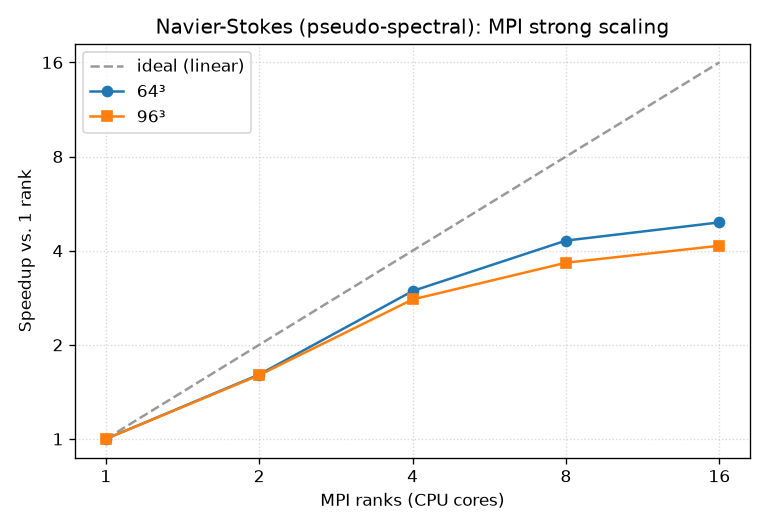
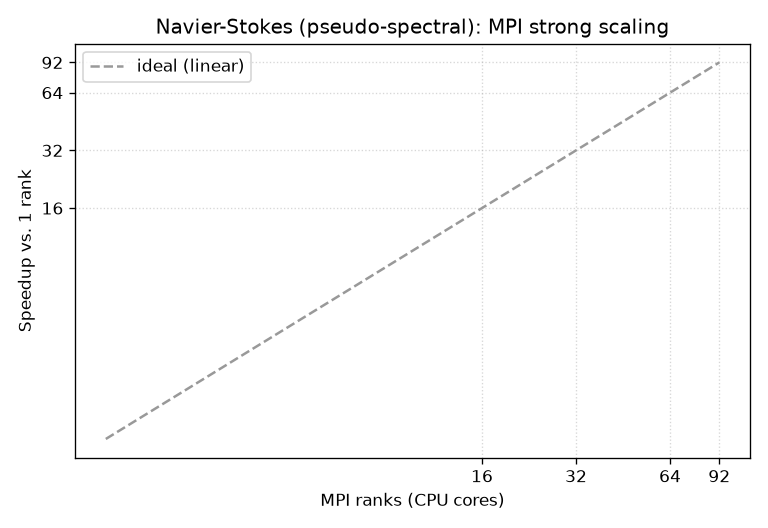
DOC: Updated benchmark

diff --git a/benchmarks/benchmark.py b/benchmarks/benchmark.py
@@ -63,9 +63,18 @@ DEFAULT_MPI_PYTHONPATH = os.pathsep.join([
 # --------------------------------------------------------------------------- #
 # Running the workload
 # --------------------------------------------------------------------------- #
-def run(device, n, steps, warmup, nranks, mpi_pythonpath):
-    """Run one timed workload; return a dict of metrics or None."""
-    base = [WORKLOAD, "-n", str(n), "-d", device,
+def run(device, n, steps, warmup, nranks, mpi_pythonpath, timeout):
+    """Run one timed workload; return a dict of metrics or None on failure.
+
+    Any failure (crash, OOM, launch error, timeout, or unparseable output) is
+    logged and reported as ``None`` so the caller can skip the point and carry
+    on. The MPI configurations launch the workload via ``python -m mpi4py`` so
+    that an unhandled exception on *any* rank calls ``MPI_Abort`` and brings the
+    whole job down with a non-zero exit, instead of leaving the surviving ranks
+    to deadlock in the next collective (which would otherwise hang until
+    ``timeout`` — up to that many seconds wasted per failed point).
+    """
+    base = ["-n", str(n), "-d", device,
             "--steps", str(steps), "--warmup", str(warmup), "--json"]
     # Make muNavierStokes importable; the non-MPI configs inherit the ambient
     # muGrid, the MPI configs prepend an MPI-enabled build.
@@ -73,24 +82,38 @@ def run(device, n, steps, warmup, nranks, mpi_pythonpath):
     pp = [REPO_ROOT]
     if nranks > 1:
         pp = [mpi_pythonpath, REPO_ROOT]
-        cmd = ["mpiexec", "-n", str(nranks), sys.executable] + base
+        # `-m mpi4py` installs an excepthook that MPI_Aborts the job on any
+        # rank's unhandled exception, turning a would-be deadlock into a fast,
+        # non-zero exit.
+        cmd = (["mpiexec", "-n", str(nranks), sys.executable, "-m", "mpi4py",
+                WORKLOAD] + base)
     else:
-        cmd = [sys.executable] + base
+        cmd = [sys.executable, WORKLOAD] + base
     existing = env.get("PYTHONPATH")
     env["PYTHONPATH"] = os.pathsep.join(pp + ([existing] if existing else []))
+
+    tag = f"[{device} n={n} ranks={nranks}]"
     try:
-        out = subprocess.run(cmd, capture_output=True, text=True, timeout=7200,
-                             env=env)
-    except subprocess.SubprocessError:
+        out = subprocess.run(cmd, capture_output=True, text=True,
+                             timeout=timeout, env=env)
+    except subprocess.TimeoutExpired:
+        sys.stderr.write(f"  {tag} timed out after {timeout}s\n")
+        return None
+    except OSError as e:
+        sys.stderr.write(f"  {tag} could not launch: {e}\n")
+        return None
+    if out.returncode != 0:
+        sys.stderr.write(f"  {tag} exited with code {out.returncode}\n"
+                         f"{out.stderr[-500:]}\n")
         return None
     m = re.search(r"\{.*\}", out.stdout, re.DOTALL)
     if not m:
-        sys.stderr.write(f"  [{device} n={n} ranks={nranks}] no JSON\n"
-                         f"{out.stderr[-500:]}\n")
+        sys.stderr.write(f"  {tag} produced no JSON\n{out.stderr[-500:]}\n")
         return None
     try:
         d = json.loads(m.group(0))
     except json.JSONDecodeError:
+        sys.stderr.write(f"  {tag} produced malformed JSON\n")
         return None
     r, c = d["results"], d["config"]
     return dict(npts=c["npts"], secs=r["secs_per_step"],
@@ -104,11 +127,21 @@ def collect(args, prov):
     configs = db.plan_configs(args.mpi_cpu_ranks, nb_gpus, want_gpu)
     rows = []
 
+    # The MPI points need an MPI-enabled muGrid on --mpi-pythonpath; warn early
+    # if the build it points at is absent (every MPI point would then fail).
+    uses_mpi = (any(nr > 1 for _, _, nr in configs)
+                or any(R > 1 for R in args.scaling_ranks))
+    mpi_build = args.mpi_pythonpath.split(os.pathsep)[0]
+    if uses_mpi and not os.path.isdir(mpi_build):
+        sys.stderr.write(f"  warning: MPI build dir not found: {mpi_build}\n"
+                         f"  (pass --mpi-pythonpath; MPI points will be skipped "
+                         f"if muGrid is not MPI-enabled)\n")
+
     # Time vs. size, one curve per device/MPI config.
     for n in args.sizes:
         for key, device, nranks in configs:
             r = run(device, n, args.steps, args.warmup, nranks,
-                    args.mpi_pythonpath)
+                    args.mpi_pythonpath, args.timeout)
             label = CONFIG_META[key]["label"](nranks)
             if r is None:
                 sys.stderr.write(f"  {label} {n}^3: skipped (failed / OOM)\n")
@@ -125,7 +158,8 @@ def collect(args, prov):
     # MPI strong scaling (CPU).
     for n in args.scaling_sizes:
         for R in args.scaling_ranks:
-            r = run("cpu", n, args.steps, args.warmup, R, args.mpi_pythonpath)
+            r = run("cpu", n, args.steps, args.warmup, R, args.mpi_pythonpath,
+                    args.timeout)
             if r is None:
                 sys.stderr.write(f"  scaling {n}^3 ranks={R}: skipped\n")
                 continue
@@ -274,7 +308,7 @@ def make_scaling_plot(scaling, path):
 # --------------------------------------------------------------------------- #
 # Doc page
 # --------------------------------------------------------------------------- #
-DOC_TEMPLATE = """# Benchmark
+DOC_TEMPLATE = r"""# Benchmark
 
 Wall time of a single classical fourth-order Runge-Kutta step of the
 pseudo-spectral [Navier-Stokes solver](implementation.md) (`benchmarks/bench_workload.py`,
@@ -383,7 +417,7 @@ def main():
         description=__doc__,
         formatter_class=argparse.RawDescriptionHelpFormatter)
     ap.add_argument("--sizes", type=int, nargs="+",
-                    default=[16, 24, 32, 48, 64, 96, 128])
+                    default=[32, 48, 64, 96, 128])
     ap.add_argument("--mpi-cpu-ranks", type=int, default=os.cpu_count(),
                     help="Ranks for the full-machine MPI CPU curve")
     ap.add_argument("--no-gpu", action="store_true", help="Skip the GPU curves")
@@ -395,6 +429,9 @@ def main():
     ap.add_argument("--mpi-pythonpath", default=DEFAULT_MPI_PYTHONPATH,
                     help="PYTHONPATH prepended for MPI (mpiexec) subprocesses; "
                          "must point at an MPI-enabled muGrid build")
+    ap.add_argument("--timeout", type=int, default=1800,
+                    help="per-data-point wall-clock timeout in seconds; a point "
+                         "that exceeds it is skipped (default 1800)")
     ap.add_argument("--render-only", action="store_true",
                     help="Skip running; render from the database")
     ap.add_argument("--timestamp", default=None,

diff --git a/benchmarks/benchmark_db.py b/benchmarks/benchmark_db.py
@@ -97,13 +97,23 @@ def detect_cpu():
 
 def detect_gpu():
     """(human-readable description, device count)."""
-    try:
-        out = subprocess.run(
-            ["nvidia-smi", "--query-gpu=name", "--format=csv,noheader"],
-            capture_output=True, text=True, timeout=30)
-        names = [n.strip() for n in out.stdout.splitlines() if n.strip()]
-    except (OSError, subprocess.SubprocessError):
-        names = []
+    names = []
+    # Try nvidia-smi first (NVIDIA), then rocm-smi (AMD).
+    for cmd, parse in [
+        (["nvidia-smi", "--query-gpu=name", "--format=csv,noheader"],
+         lambda out: [n.strip() for n in out.splitlines() if n.strip()]),
+        (["rocm-smi", "--showproductname", "--csv"],
+         lambda out: [row.split(",")[1].strip()
+                      for row in out.splitlines()[1:] if row.strip()]),
+    ]:
+        try:
+            out = subprocess.run(cmd, capture_output=True, text=True, timeout=30)
+            if out.returncode == 0:
+                names = parse(out.stdout)
+                if names:
+                    break
+        except (OSError, subprocess.SubprocessError):
+            pass
     if not names:
         return "none", 0
     uniq = sorted(set(names))

diff --git a/docs/benchmark.md b/docs/benchmark.md
@@ -6,12 +6,12 @@ Taylor-Green initial condition), across log-spaced **3D** grid sizes. Lower is
 better.
 
 !!! info "Test machine & code version"
-    - **CPU:** Intel(R) Core(TM) Ultra 7 356H (16 logical cores)
-    - **GPU:** NVIDIA RTX PRO 500 Blackwell Generation Laptop GPU
-    - **muNavierStokes:** `1220935` — run 2026-06-23T08:32:01
+    - **CPU:** AMD Instinct MI300A Accelerator (192 logical cores)
+    - **GPU:** 4x AMD Instinct MI300A
+    - **muNavierStokes:** `7a60847-dirty` — run 2026-06-23T22:07:26
 
 Run configuration: triply-periodic box, kinematic viscosity `ν = 1/1600`,
-time step `1e-3`, 2/3-rule dealiasing on. Each data point times 10 RK4 steps
+time step `1e-3`, 2/3-rule dealiasing on. Each data point times 20 RK4 steps
 (after warm-up) and reports the mean — i.e. a **fixed work budget**, so every
 configuration performs identical arithmetic. Timing covers only the integration
 loop (no file I/O, no diagnostics). One RK4 step evaluates the right-hand side
@@ -24,16 +24,18 @@ The plot below merges the ways of running the *same* solver on this machine:
 
 - **CPU (1 core)** — a single core, MPI disabled (the non-MPI muGrid build).
   muGrid's compute kernels carry no OpenMP, so a non-MPI CPU run uses one core.
-- **CPU (16 cores, MPI)** — the whole CPU via MPI pencil decomposition
-  (`mpiexec -n 16`), the grid split into per-rank subdomains whose FFTs
+- **CPU (92 cores, MPI)** — the whole CPU via MPI pencil decomposition
+  (`mpiexec -n 92`), the grid split into per-rank subdomains whose FFTs
   exchange data each transform.
 - **GPU (1 device)** — the whole GPU (cuFFT plus the fused device kernels).
+- **GPU (N devices, MPI)** — all GPUs, one rank per device.
 
-| Configuration | 16³ (4k) | 24³ (14k) | 32³ (33k) | 48³ (111k) | 64³ (262k) | 96³ (885k) | 128³ (2.1M) |
+| Configuration | 32³ (33k) | 48³ (111k) | 64³ (262k) | 96³ (885k) | 128³ (2.1M) | 192³ (7.1M) | 256³ (16.8M) |
 |---|---|---|---|---|---|---|---|
-| CPU (1 core) | 0.829 | 2.56 | 6.72 | 35.6 | 87.4 | 331 | 891 |
-| CPU (16 cores, MPI) | 0.915 | 2.12 | 1.93 | 6.76 | 32.8 | 91.3 | 234 |
-| GPU (1 device) | 5.46 | 5.05 | 5.86 | 6.82 | 15.2 | 51.4 | 117 |
+| CPU (1 core) | 8.49 | 37.3 | 96.2 | 416 | 1.11e+03 | 3.39e+03 | 7.95e+03 |
+| CPU (92 cores, MPI) | 2.79 | 4.65 | 6.8 | 19.5 | 37.7 | 151 | 287 |
+| GPU (1 device) | 3.13 | 2.27 | 3.1 | 4.62 | 6.9 | 16.9 | 48.2 |
+| GPU (4 devices, MPI) | 6.86 | 9.13 | 7.57 | 17 | 32.2 | 102 | 229 |
 
 (values are **milliseconds per RK4 step**)
 
@@ -54,32 +56,39 @@ short of the GPU.
     The solver binds each MPI rank to the communicator it is given, so on a host
     with several GPUs `mpiexec -n <#GPUs> python bench_workload.py -d cuda` runs
     one rank per device. This benchmark adds a *GPU (N devices, MPI)* curve
-    automatically when more than one GPU is present. **This run used a single GPU, so only the single-GPU curve is shown; the script produces the multi-GPU curve on a multi-GPU host with no changes.**
+    automatically when more than one GPU is present. **This run used several GPUs, so the multi-GPU curve is shown.**
 
 ## MPI strong scaling (CPU)
 
 Strong scaling of the same step (fixed problem size, increasing MPI ranks) on the
-16-core CPU.
-
-**64³ (262,144 points)**
-
-| Ranks | ms/step | Speedup | Parallel eff. |
-|---|---|---|---|
-| 1 | 87.46 | 1.00× | 100% |
-| 2 | 54.41 | 1.61× | 80% |
-| 4 | 29.43 | 2.97× | 74% |
-| 8 | 20.30 | 4.31× | 54% |
-| 16 | 17.75 | 4.93× | 31% |
+92-core CPU.
 
 **96³ (884,736 points)**
 
 | Ranks | ms/step | Speedup | Parallel eff. |
 |---|---|---|---|
-| 1 | 331.91 | 1.00× | 100% |
-| 2 | 207.45 | 1.60× | 80% |
-| 4 | 118.83 | 2.79× | 70% |
-| 8 | 90.67 | 3.66× | 46% |
-| 16 | 79.99 | 4.15× | 26% |
+| 16 | 49.02 | nan× | nan% |
+| 32 | 25.06 | nan× | nan% |
+| 64 | 20.62 | nan× | nan% |
+| 92 | 19.67 | nan× | nan% |
+
+**128³ (2,097,152 points)**
+
+| Ranks | ms/step | Speedup | Parallel eff. |
+|---|---|---|---|
+| 16 | 160.58 | nan× | nan% |
+| 32 | 73.12 | nan× | nan% |
+| 64 | 37.28 | nan× | nan% |
+| 92 | 39.02 | nan× | nan% |
+
+**192³ (7,077,888 points)**
+
+| Ranks | ms/step | Speedup | Parallel eff. |
+|---|---|---|---|
+| 16 | 607.45 | nan× | nan% |
+| 32 | 310.83 | nan× | nan% |
+| 64 | 147.45 | nan× | nan% |
+| 92 | 157.01 | nan× | nan% |
 
 ![Navier-Stokes MPI strong scaling](benchmark_mpi.png)
 